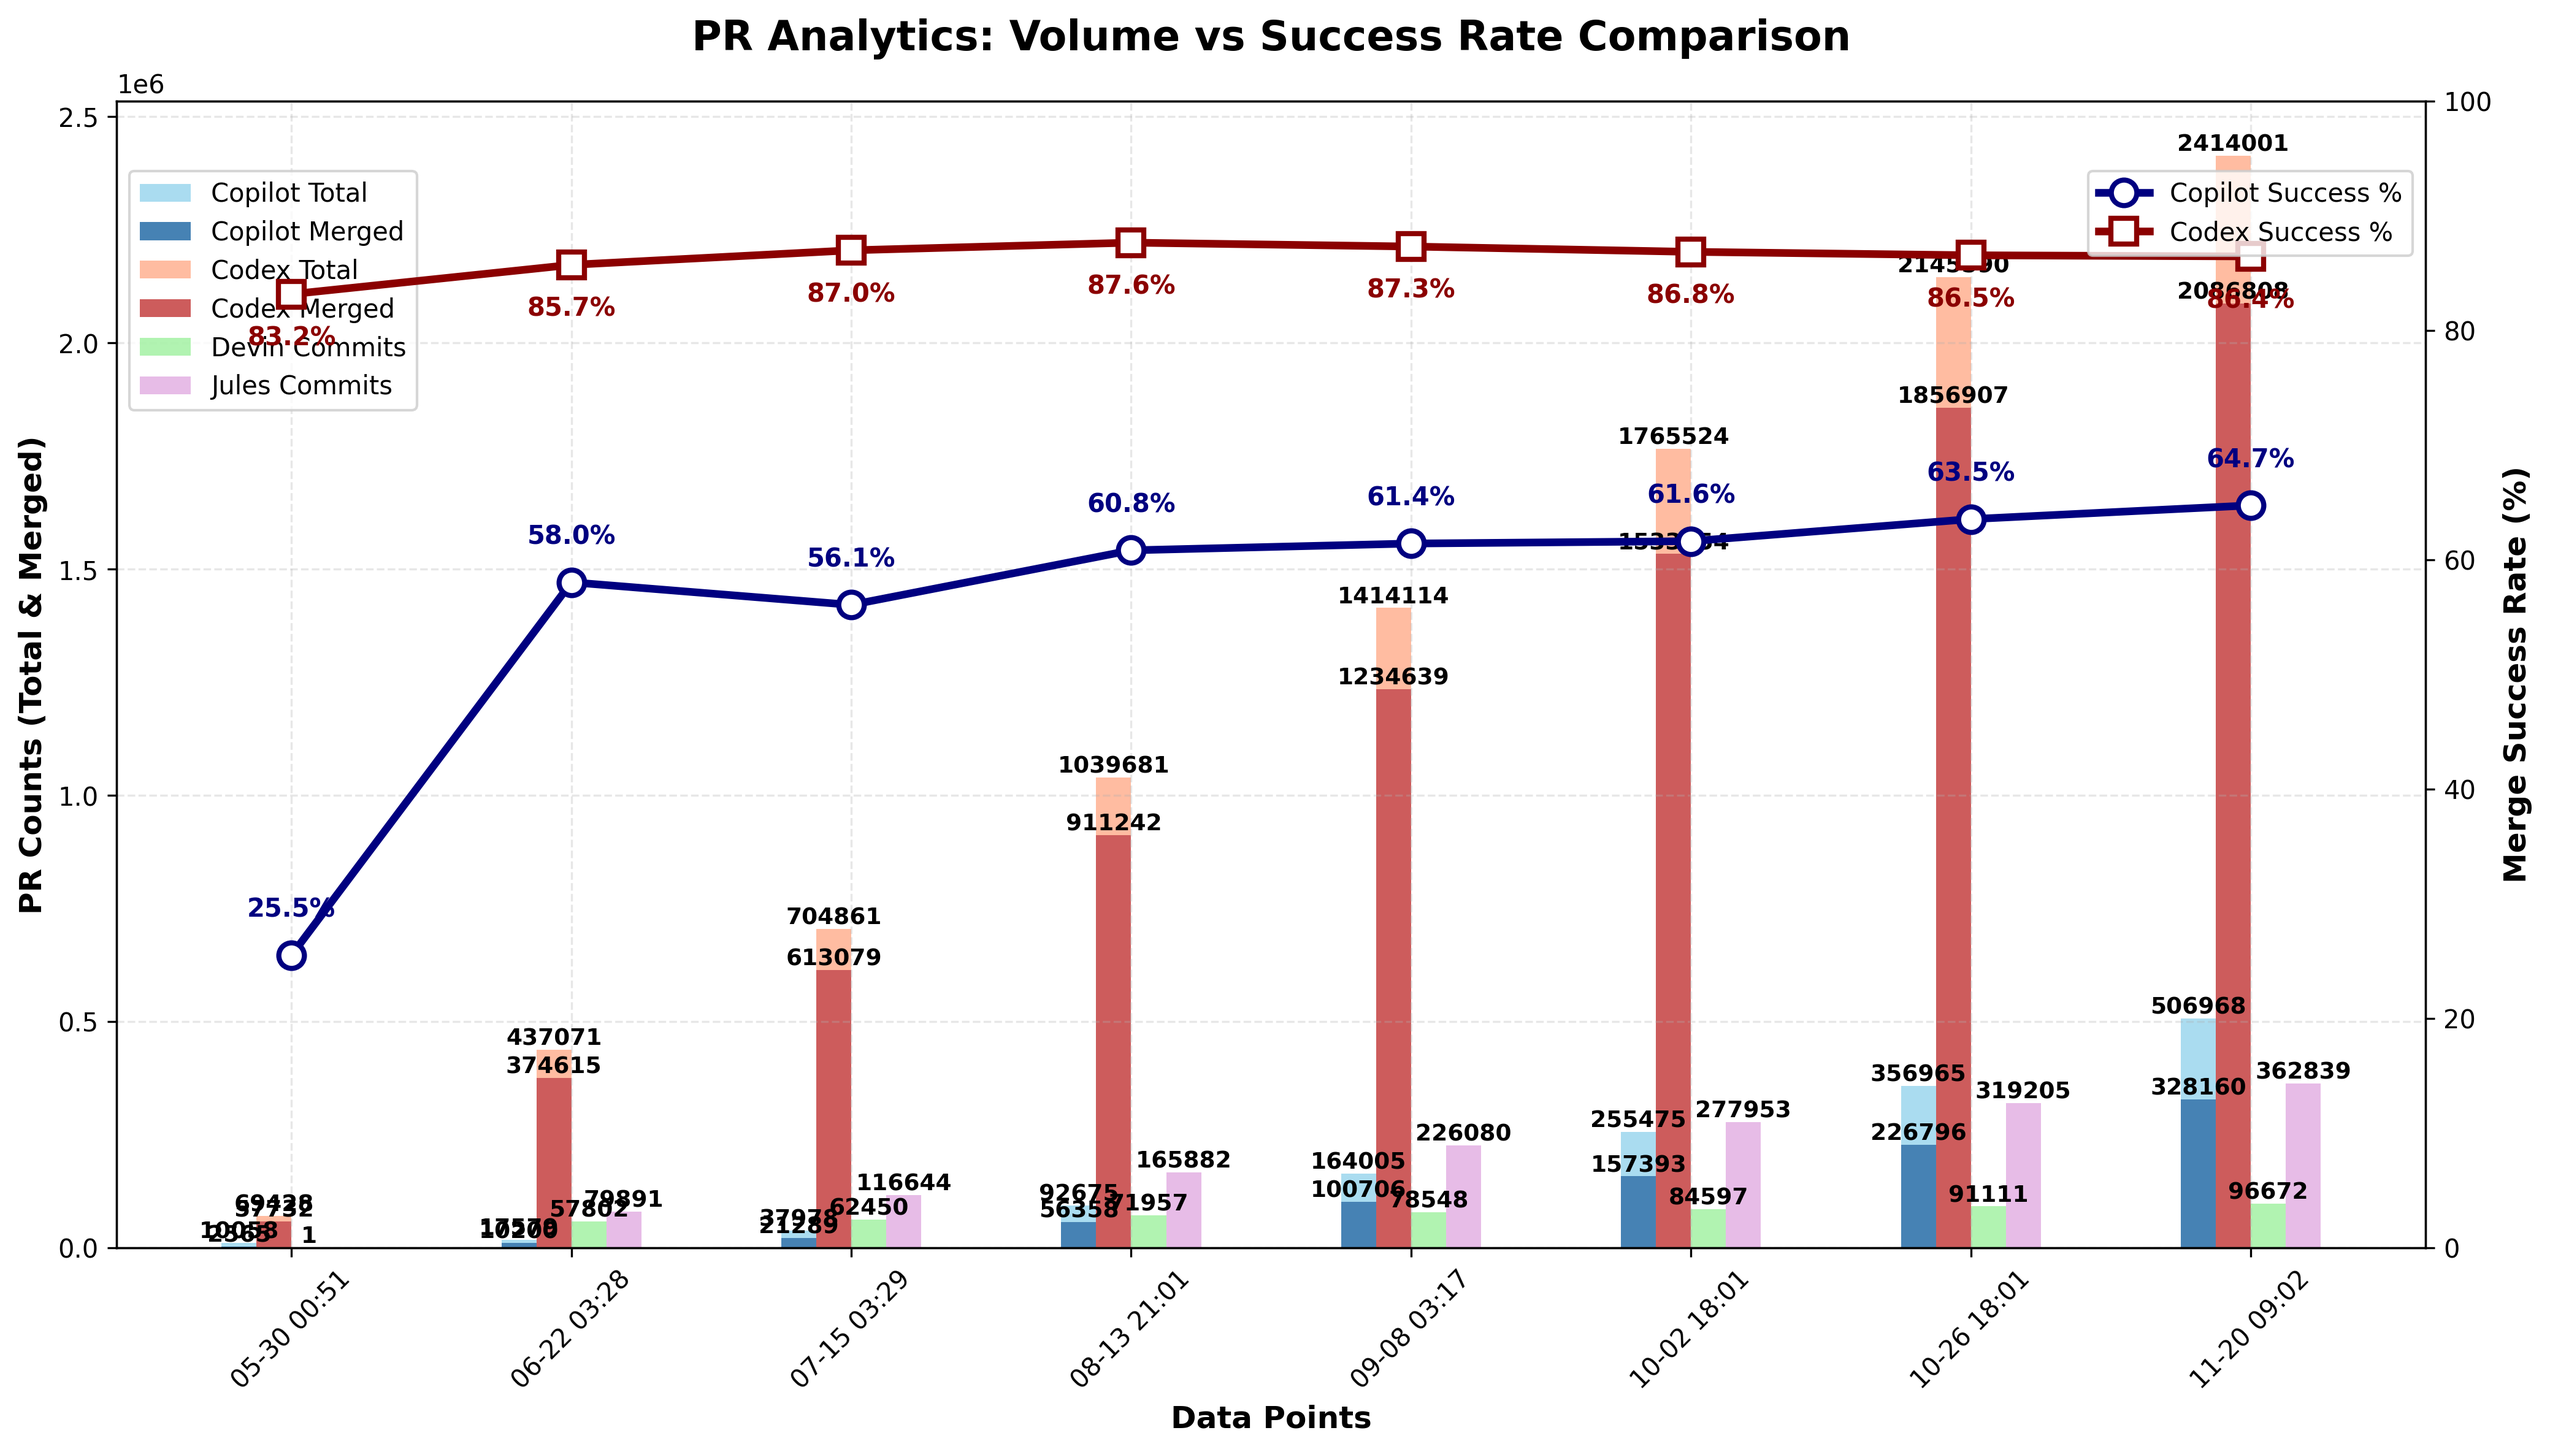
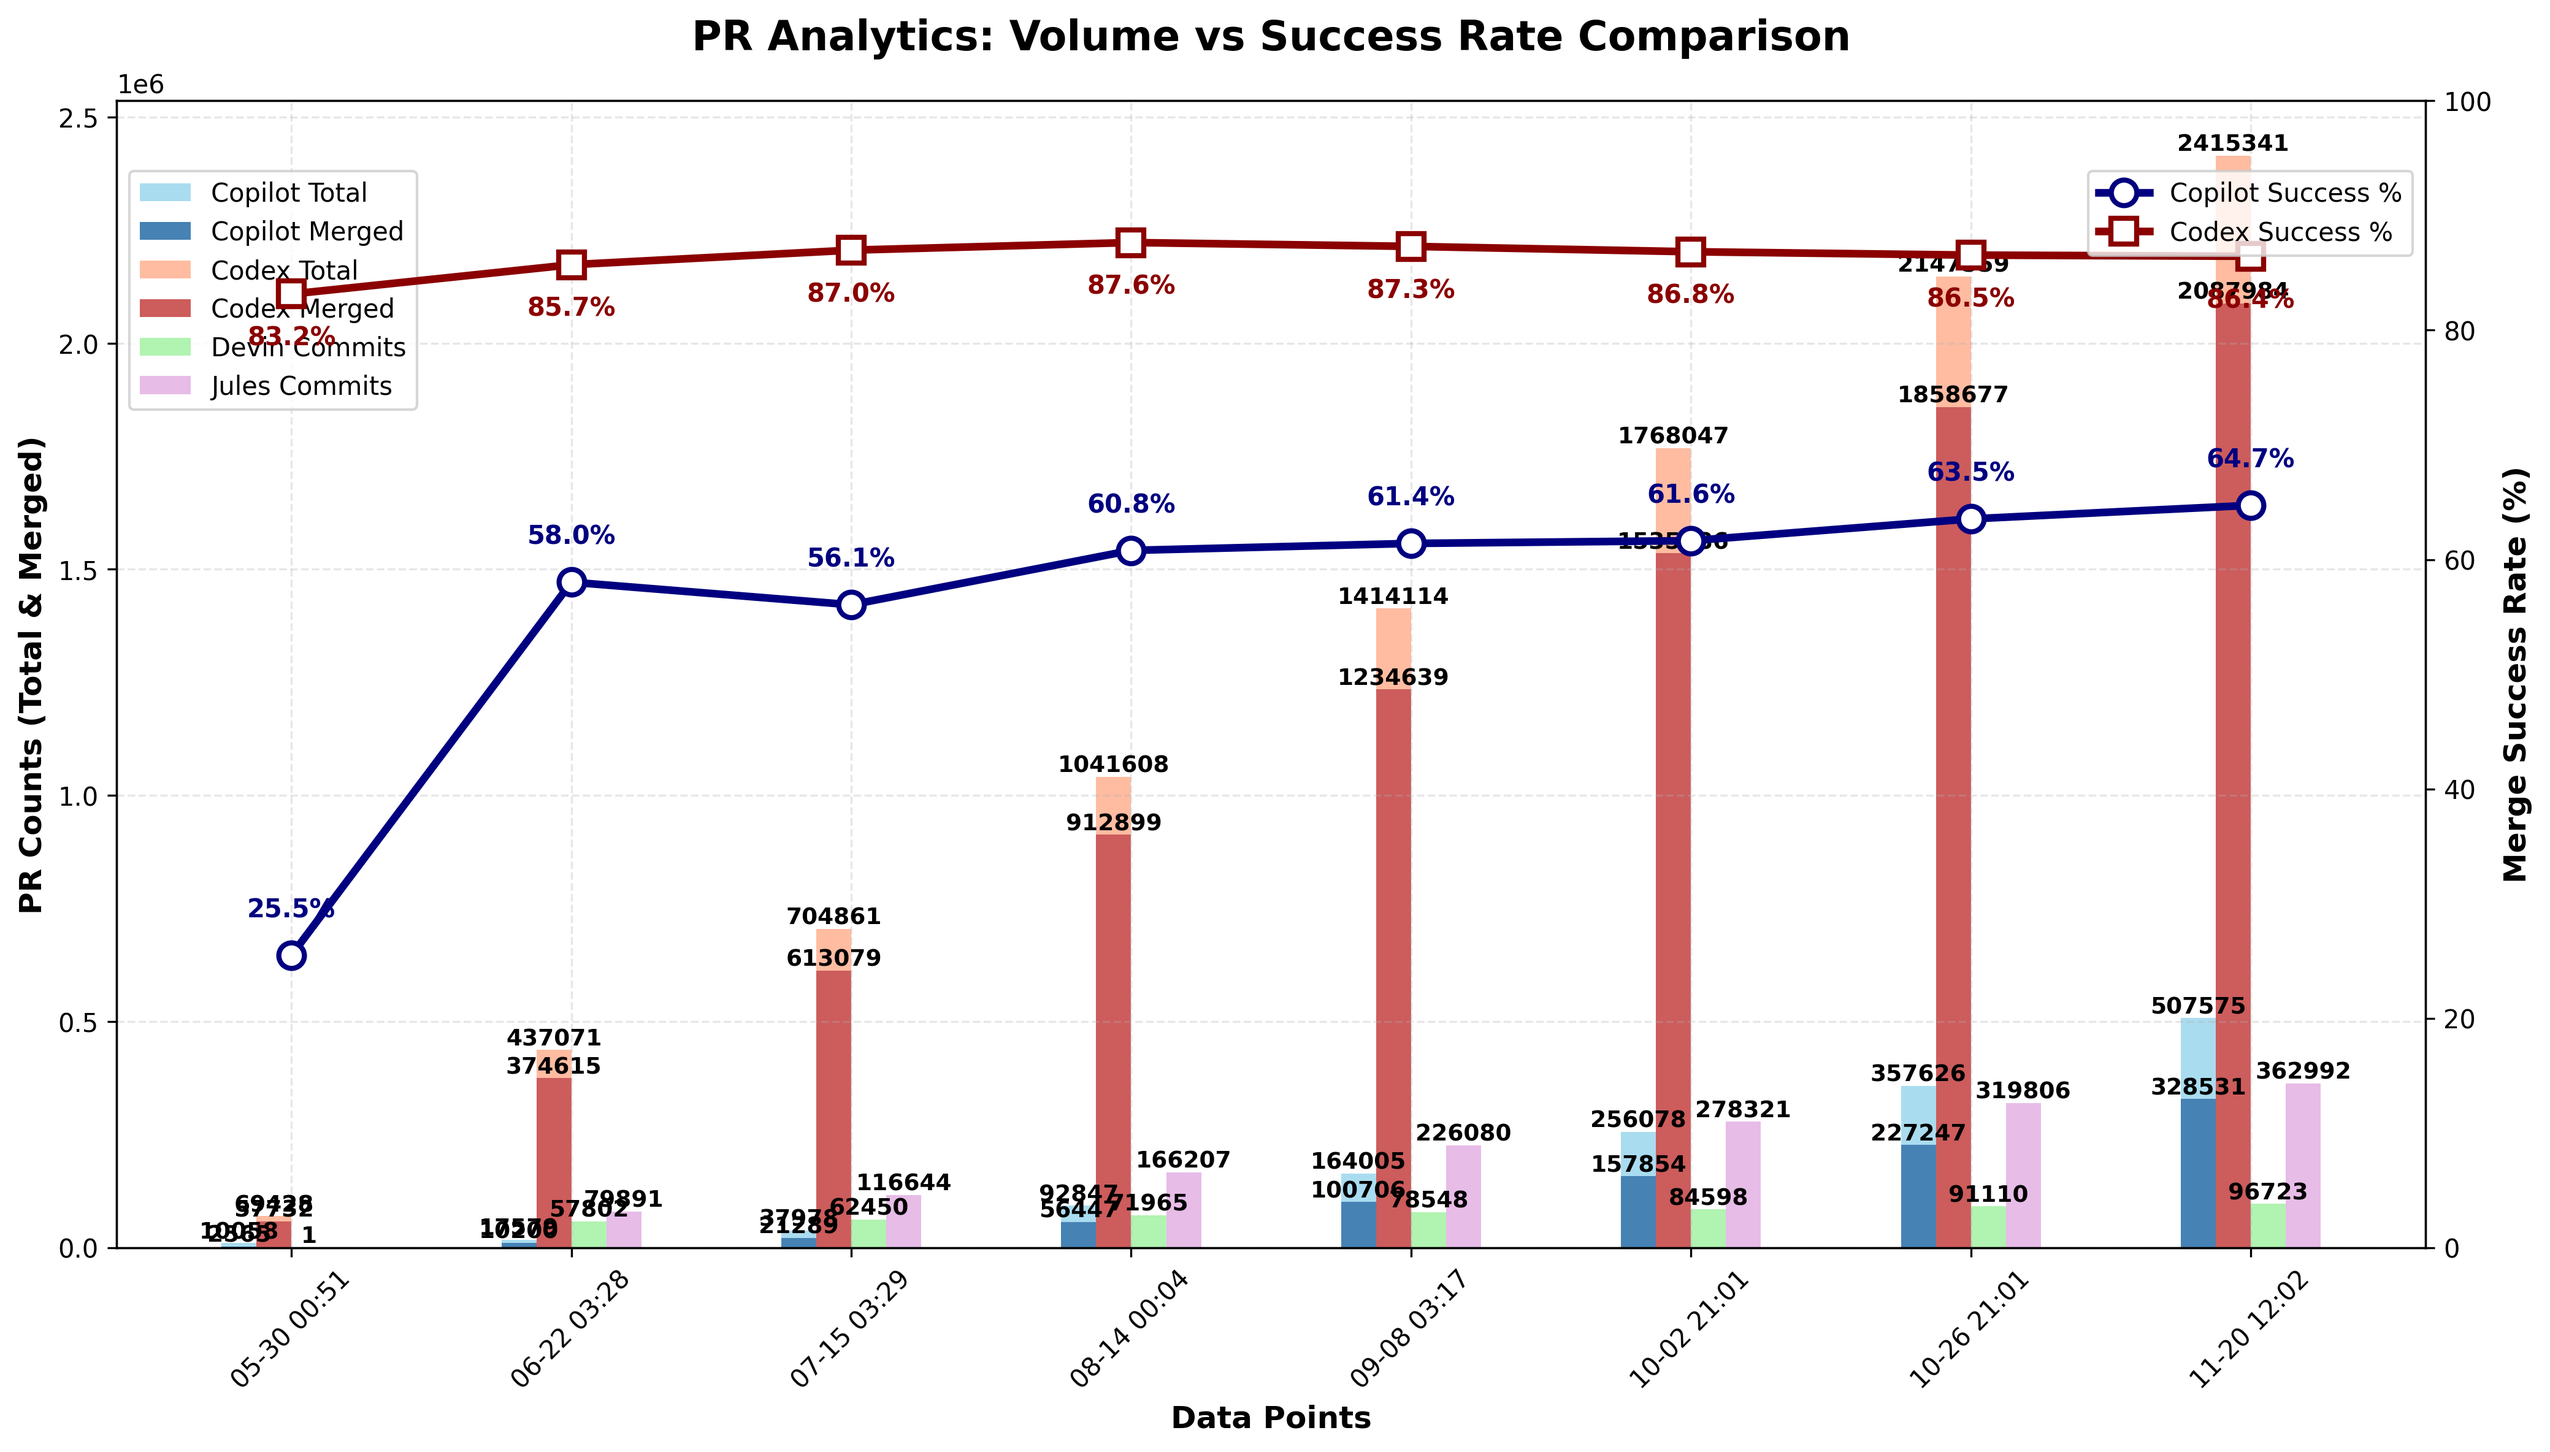
chore: update PR‑approval chart

diff --git a/docs/index.html b/docs/index.html
@@ -1338,6 +1338,7 @@
                         <td>N/A</td>
                         <td>N/A</td>
                         <td>N/A</td>
+                        <td>N/A</td>
                     </tr>
                     <tr>
                         <td>Codex</td>
@@ -2634,27 +2635,28 @@
                         <td>N/A</td>
                         <td>N/A</td>
                         <td>N/A</td>
+                        <td>N/A</td>
                     </tr>
                 <tr>
                         <td>Devin</td>
                         <td>N/A</td>
                         <td>N/A</td>
                         <td>N/A</td>
-                        <td>96,672</td>
+                        <td>96,723</td>
                     </tr>
                     <tr>
                         <td>Jules</td>
                         <td>N/A</td>
                         <td>N/A</td>
                         <td>N/A</td>
-                        <td>362,839</td>
+                        <td>362,992</td>
                     </tr>
                     </tbody>
             </table>
         </section>
 
         <footer>
-            <p>Last updated: <span id="last-updated">November 20, 2025 09:02 UTC</span></p>
+            <p>Last updated: <span id="last-updated">November 20, 2025 12:02 UTC</span></p>
             <p><a href="https://github.com/aavetis/ai-pr-watcher">View on GitHub</a></p>
         </footer>
     </div>

diff --git a/README.md b/README.md
@@ -19,7 +19,7 @@ Explore the GitHub search queries used:
 
 | Service | Total PRs | Merged PRs | Merge Rate | Total Commits |
 | ------- | --------- | ---------- | ---------- | ------------- |
-| Copilot | 506,968 | 328,160 | 64.73% | N/A           |
-| Codex   | 2,414,001 | 2,086,808 | 86.45% | N/A           |
-| Devin   | N/A       | N/A        | N/A        | 96,672 |
-| Jules   | N/A       | N/A        | N/A        | 362,839 |
+| Copilot | 507,575 | 328,531 | 64.73% | N/A           |
+| Codex   | 2,415,341 | 2,087,984 | 86.45% | N/A           |
+| Devin   | N/A       | N/A        | N/A        | 96,723 |
+| Jules   | N/A       | N/A        | N/A        | 362,992 |
